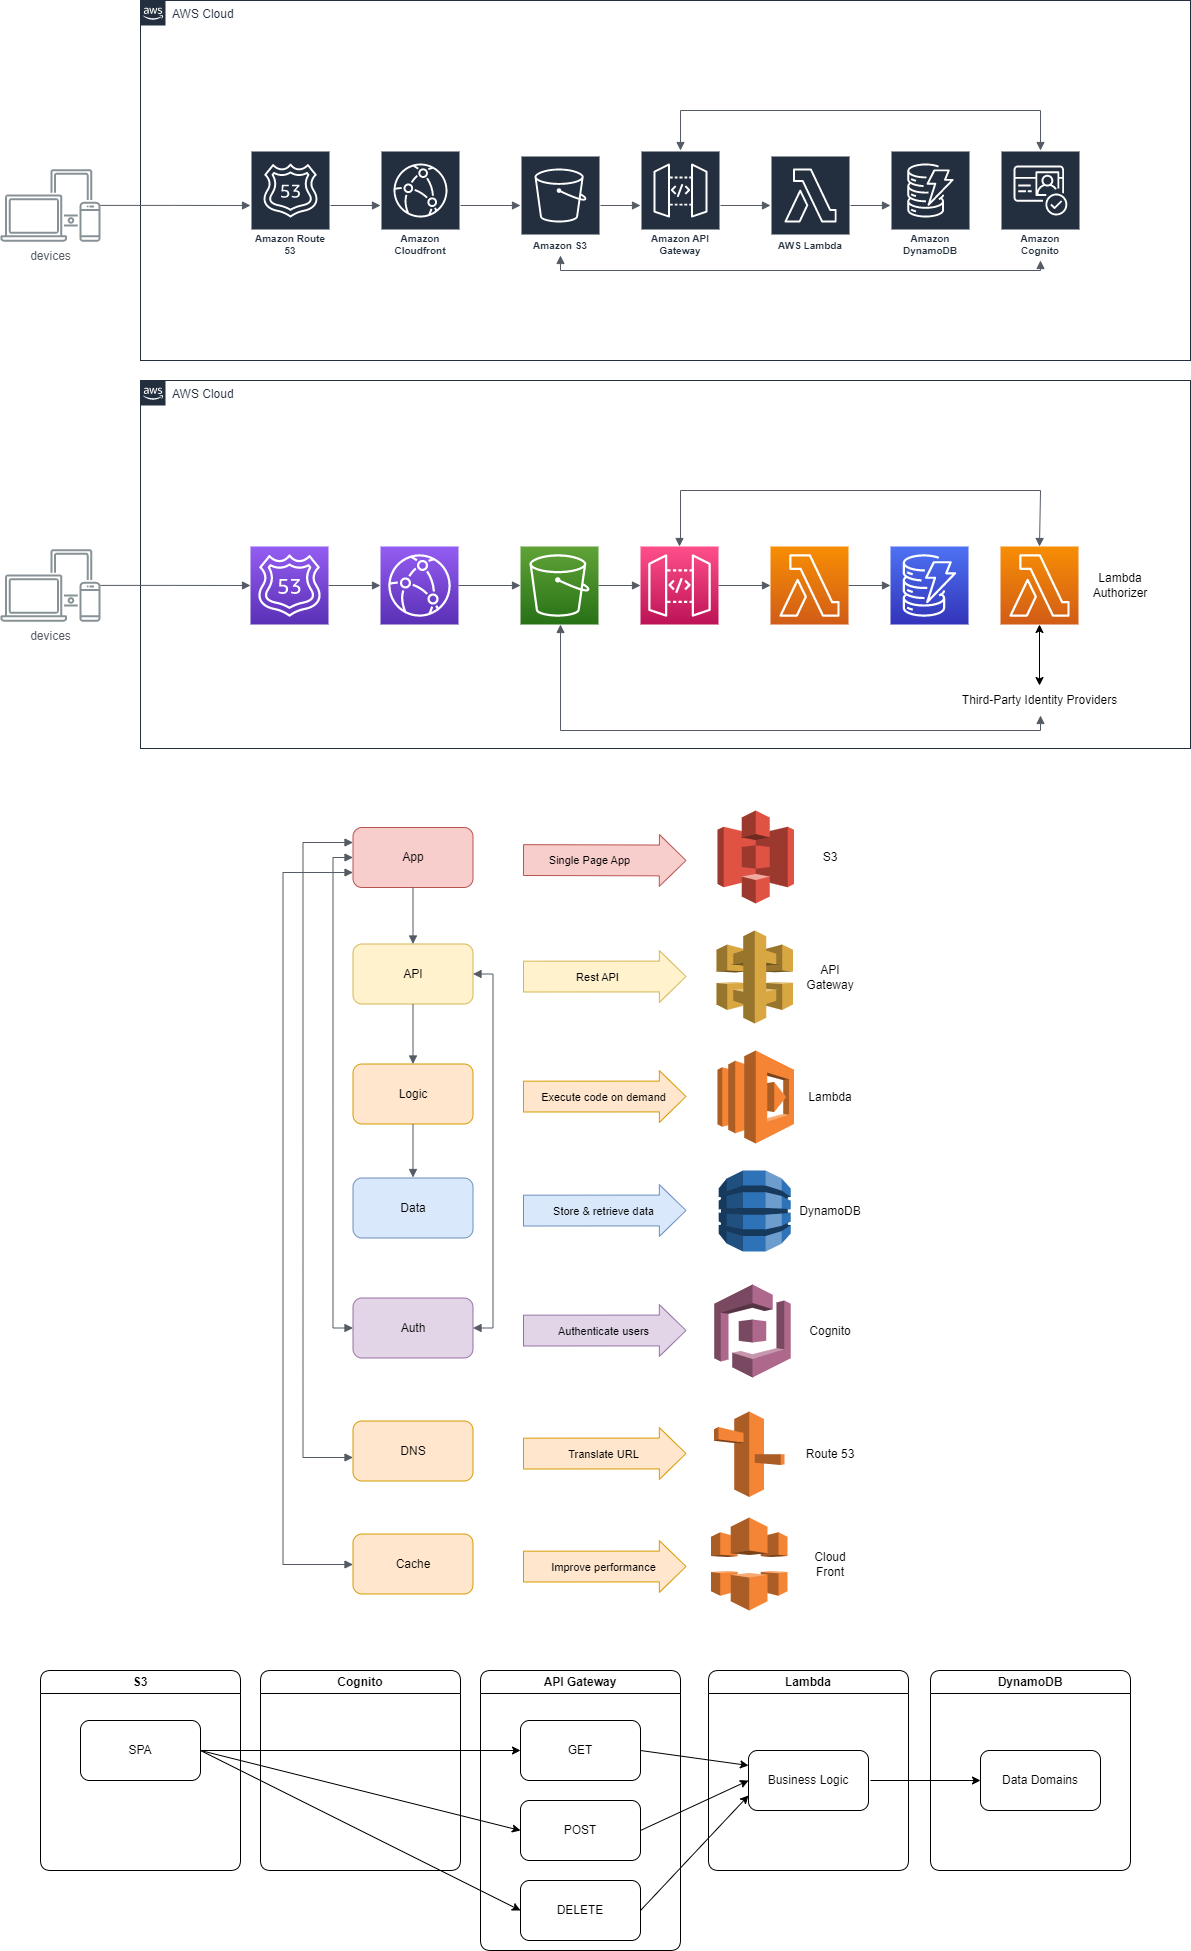
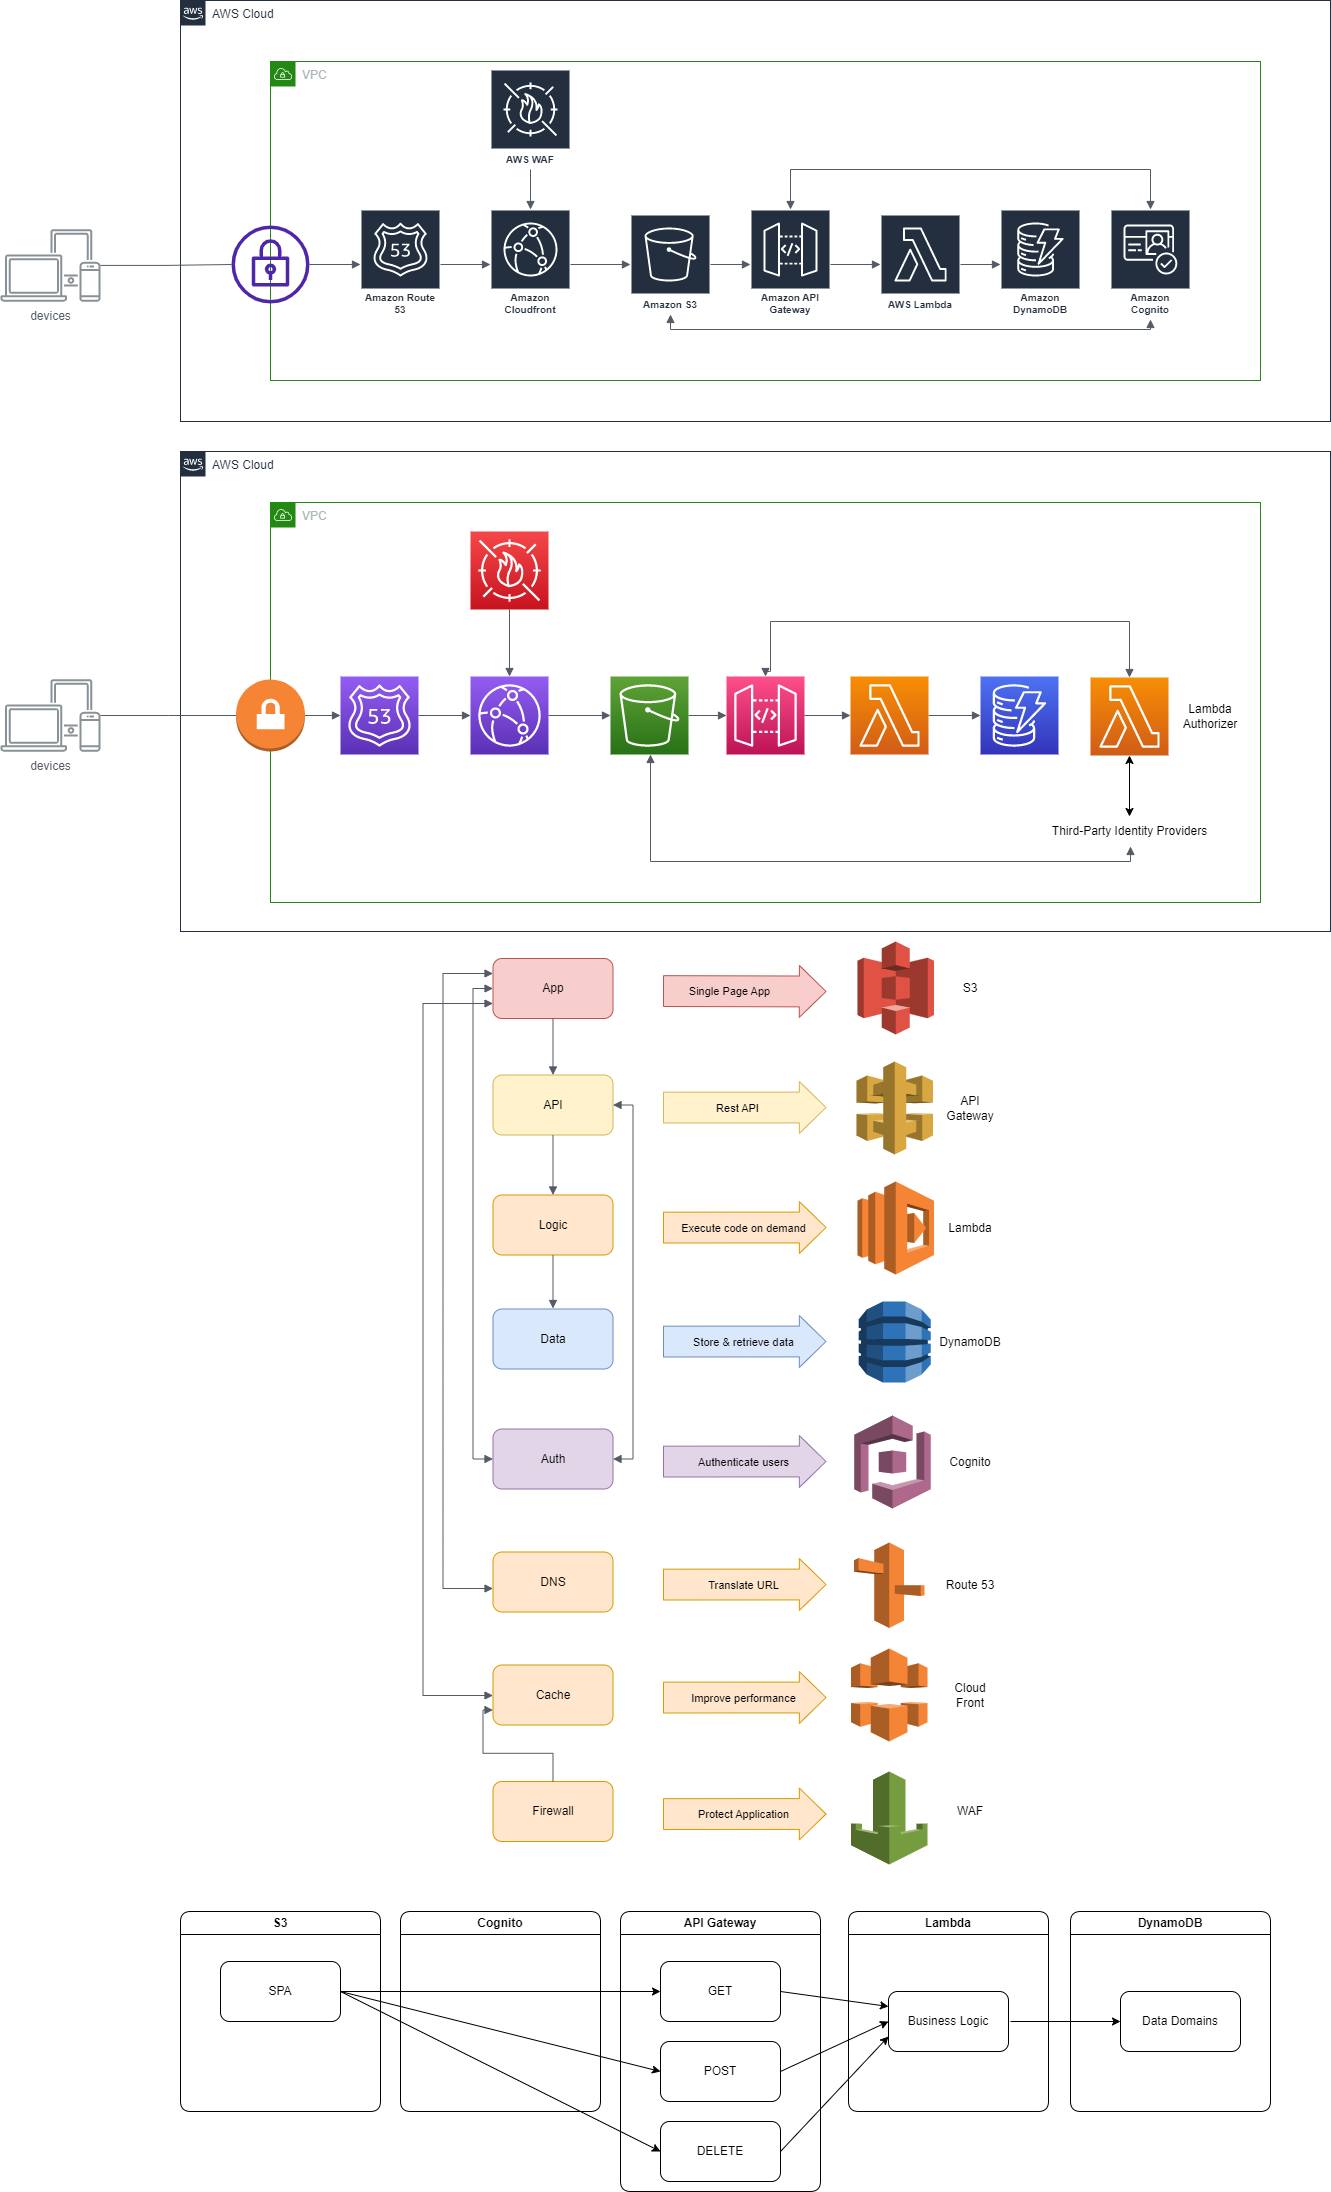
Add aws networking doc

diff --git a/docs/aws-networking.md b/docs/aws-networking.md
@@ -1,0 +1,23 @@
+# Networking
+
+## VPC
+
+Virtual Private Cloud (VPC) is a virtual network dedicated to your AWS account. It is logically isolated from other virtual networks in the AWS Cloud. You can launch your AWS resources, such as Amazon EC2 instances, into your VPC.
+
+Imagine a million of customers who use AWS Services, also the millions of resources that they use. How does AWS keep all of these resources separate? The answer is VPC. VPC is a virtual network that is logically isolated from other virtual networks in the AWS Cloud. You can launch your AWS resources, such as Amazon EC2 instances, into your VPC.
+
+## Subnet
+
+A subnet is a range of IP addresses in your VPC. You can launch AWS resources into a specified subnet. Use a public subnet for resources that must be connected to the internet, and a private subnet for resources that won't be connected to the internet.
+
+## Internet Gateway
+
+An internet gateway is a horizontally scaled, redundant, and highly available VPC component that allows communication between your VPC and the internet. It therefore imposes no availability risks or bandwidth constraints on your network traffic.
+
+## Virtual Private Gateway
+
+A virtual private gateway is the VPN concentrator on the Amazon side of the VPN connection between your on-premises network and your VPC.
+
+## Direct Connect Gateway
+
+A Direct Connect gateway is a globally available resource. It is a virtual private gateway that is automatically attached to your Direct Connect connection at the time of creation. You can associate up to three transit gateways with a Direct Connect gateway.
